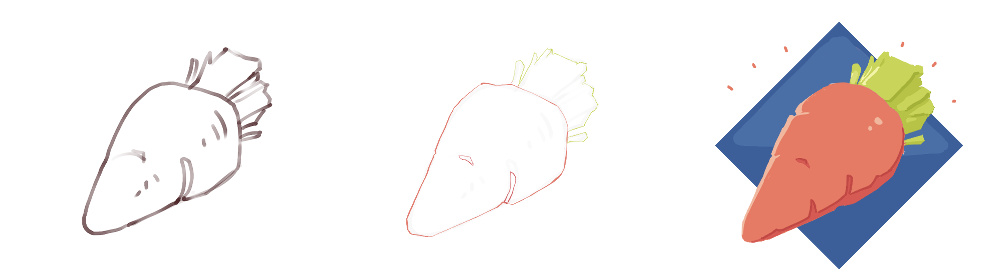
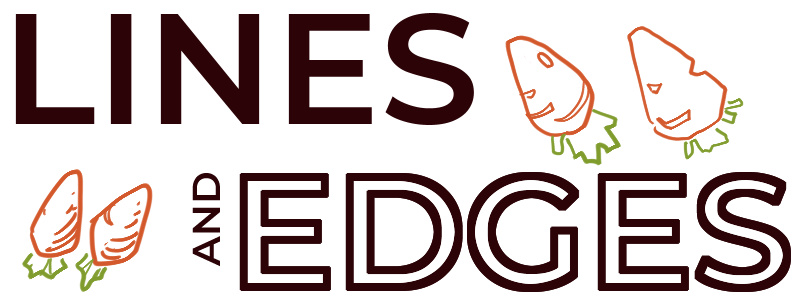
Improve Article "Lines and Edges"

diff --git a/articles/lines-and-edges/index.html b/articles/lines-and-edges/index.html
@@ -5,33 +5,42 @@
 	<meta charset="UTF-8">
 	<meta http-equiv="X-UA-Compatible" content="IE=edge">
 	<meta name="viewport" content="width=device-width, initial-scale=1.0">
+
 	<title>Lines and Edges</title>
+
+	<link rel="shortcut icon" href="favicon.png" type="image/x-icon">
+
+	<link rel="stylesheet" href="../../global.css">
 	<link rel="stylesheet" href="style.css">
+
+	<!-- Open Graph -->
+	<meta property="og:image" content="banner.jpg">
+	<meta property="og:type" content="article">
+	<meta property="og:title" content="Lines and Edges">
+	<meta property="og:description"
+		content="In an era dominated by drawings that juggle both lines and colors in a single composition, understanding the difference between a line and an edge is key to creating vibrant illustrations.">
 </head>
 
 <body>
+	<div class="centered">
 
-	<nav>
-		<ul>
-			<li>
-				<a href="/index.html">Bryan Sturm</a> &gt; <a href="../index.html">Articles</a> &gt; <a href="index.html">Lines
-					and Edges</a>
-			</li>
-		</ul>
-	</nav>
+		<nav>
+			<a href="/index.html">Bryan Sturm</a> &gt; <a href="../index.html">Articles</a> &gt; <a href="index.html">Lines
+				and Edges</a>
+		</nav>
 
-	<div class="main-content">
+		<img src="banner.jpg" class="banner-image">
+		<p class="banner-dingbat">✽ ✽ ✽</p>
+
 		<article>
 			<h1>Lines and Edges</h1>
-
-			<p><img src="banner.jpg"></p>
 
 			<p>
 				For anyone else out there struggling with anime-style art, this is what helped me.
 			</p>
 			<p>
-				Most anime "line drawings" are not actually line drawings. What you're actually looking at are the boundaries of
-				color shapes on the canvas.
+				Most anime "line drawings" are not actually line drawings. They are actually the boundaries of color shapes on
+				the canvas.
 			</p>
 			<p>
 				The easiest way to explain this is by drawing a distinction between <em>lines</em> and <em>edges</em>.
@@ -40,36 +49,78 @@
 				Conceptually, a <dfn>line</dfn> is a standalone graphic element. It has properties such as weight, direction,
 				rhythm, and energy. Careful arrangement of lines yields a finished illustration.
 			</p>
+			<img src="lines.jpg" alt="Figure showing properties of lines." title="Different properties of lines.">
 			<p>
 				On the other hand, an <dfn>edge</dfn> represents the boundary between two different shapes. This leads to some
 				interesting characteristics. For one, the only property edges have is hardness. When two shapes immediately
-				transition, the edge is hard. When two gradients gradually mix together, the edge is soft. Likewise, edges can
-				only exist in the presence of shapes. That's because edges are a property of shapes. If you delete the shape,
-				the edge disappears with it.
+				transition, the edge is hard. When two gradients gradually mix together, the edge is soft.
 			</p>
+			<img src="edges.jpg" alt="Figure comparing hard and soft edges." title="Hard versus soft edges.">
+			<p>
+				Likewise, edges can only exist in the presence of shapes. That's because edges are a property of shapes. If you
+				delete the shape, the edge disappears with it.
+			</p>
+			<img src="edges2.jpg" alt="Figure showing relationship of edges to shapes."
+				title="Edges are a property of shapes.">
 			<p>
 				Where this distinction becomes muddled is once these two concepts hit the canvas. Usually, lines and edges are
 				drawn using the same technique: a thin contrasting line. This unfortunate coincidence can make it difficult for
 				an untrained eye to tell the difference.
 			</p>
+			<img src="muddle.jpg" alt="An annotated illustration identifying edges versus lines"
+				title="Examples of lines versus edges.">
+			<p>
+				One easy way to determine whether something is a line or an edge is to ask yourself the question: <q>Could I
+					change the width of this line without losing any information?</q>
+			</p>
+			<p>
+				Edges are the boundaries between shapes. No matter how wide the mark used to represent them is, we are still
+				showing the same information. Lines are different. If we change the width of the line, we change its inherent
+				properties.
+			</p>
+
+			<h2>Sketching with Edges</h2>
+
 			<p>
 				This brings us back to anime-style line art.
 			</p>
 			<p>
 				The first consequence of our understanding is this:
-			</p>
-			<p class="key-quote">
-				An anime-style sketch uses no <em>lines</em>, only <em>edges</em>.
+				<br>
 			</p>
 			<p>
-				It is nearly impossible to achieve the same level of precision by approaching the subject with the intent to
-				draw lines. Your sense of intuition crumbles once your line width drops beneath a certain threshold. And without
-				your intuition, it is impossible to draw convincingly at all.
+				<strong>An anime-style sketch uses no <em>lines</em>, only <em>edges</em>.</strong>
 			</p>
 			<p>
-				The only way to surpass this limit is to tap into the brain's understanding of edges. Our feel for the
+				Here is an example of the difference between a drawing made with lines and a drawing made with edges.
+			</p>
+			<img src="sketch.jpg" alt="Lines vs edges.">
+			<p>
+				There are a couple things to take notice of here.
+			</p>
+			<p>
+				The first observation is that many of the details inside the subject have been eliminated. For example, the
+				quick repeating lines suggesting the curvature of the body have been omitted. These marks were not not necessary
+				to illustrate the boundary between two shapes, so we left them out.
+			</p>
+			<p>
+				The second observation is the mark width. Notice how the edge drawing uses marks that are an order of magnitude
+				thinner than the line drawing.
+			</p>
+			<p>
+				This is where theory turns into practice.
+			</p>
+			<p>
+				It is nearly impossible to achieve this level of precision by approaching the subject with the intent to draw
+				lines. Our sense of intuition crumbles once our mark width drops beneath a certain threshold. And without our
+				intuition, it is impossible to draw convincingly at all.
+			</p>
+			<p>
+				The only way to surpass this limit is to tap into the brain's understanding of edges. Our intuition for the
 				boundaries between shapes far exceeds our feel for form and rhythm.
 			</p>
+
+			<h2>Painting with Edges</h2>
 			<p>
 				The second consequence of our understanding is this:
 			</p>
@@ -99,7 +150,7 @@
 			</figure>
 		</article>
 
-		<div>
+		<div id="task-section">
 			<h2 id="tasks">Tasks (Under Construction)</h2>
 
 			<section>
@@ -150,7 +201,7 @@
 
 		</div> <!-- End Tasks -->
 
-	</div> <!-- End Main Content -->
+	</div> <!-- End .centered -->
 
 </body>
 

diff --git a/articles/lines-and-edges/style.css b/articles/lines-and-edges/style.css
@@ -1,19 +1,15 @@
 /* ----- Common ----- */
 
-body {
-	font-family: -apple-system, BlinkMacSystemFont, 'Segoe UI', Roboto, Oxygen, Ubuntu, Cantarell, 'Open Sans', 'Helvetica Neue', sans-serif;
+.centered {
+	max-width: 40em;
+	margin: 0 auto;
 }
 
 /* ----- Navigation ----- */
 
 nav {
+	margin-top: 1rem;
 	color: grey;
-}
-
-nav ul {
-	list-style: none;
-	padding: 0;
-	margin: 0;
 }
 
 nav a {
@@ -23,36 +19,41 @@ nav a {
 
 /* ----- Content ----- */
 
-.main-content {
-	max-width: 40em;
-	margin: 0 auto;
-	line-height: 1.5;
+.banner-image {
+	margin-top: 2em;
+	margin-bottom: 1em;
+	padding-bottom: 1em;
+}
+
+.banner-dingbat {
+	text-align: center;
 }
 
 article {
 	margin-bottom: 5em;
+	line-height: 1.5;
 }
 
-h1 {
-	font-size: 2.5em;
-	border-bottom: 1px solid grey;
-}
-
-h2 {
-	font-size: 1.8em;
+h1, h2 {
+	font-size: 2em;
+	margin-bottom: 0.2em;
 }
 
 img {
-	width: 100%;
-}
-
-.key-quote {
-	font-weight: bold;
+	width: 85%;
+	display: block;
+	margin: 0 auto;
 }
 
 figure {
 	margin: 0;
 	text-align: center;
+}
+
+/* ----- Tasks ----- */
+
+#task-section {
+	display: none;
 }
 
 .answer {

diff --git a/global.css b/global.css
@@ -1,0 +1,16 @@
+:root {
+	--font: -apple-system, BlinkMacSystemFont, 'Segoe UI', Roboto, Oxygen, Ubuntu, Cantarell, 'Open Sans', 'Helvetica Neue', sans-serif;
+	--border-radius: 10px;
+
+	--default-fg: #242424;
+	--accent-fg: #f12256;
+}
+
+body {
+	font-family: var(--font);
+	color: var(--default-fg);
+}
+
+img {
+	width: 100%;
+}
